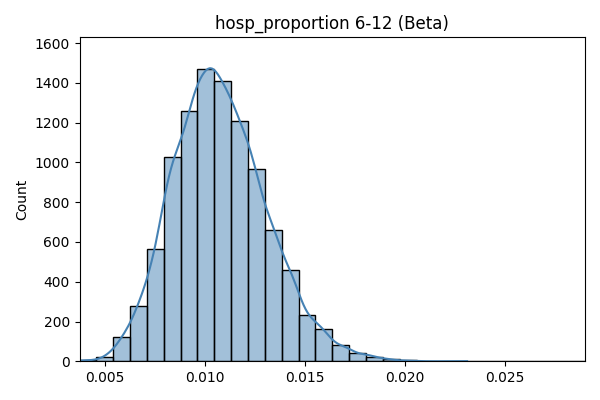
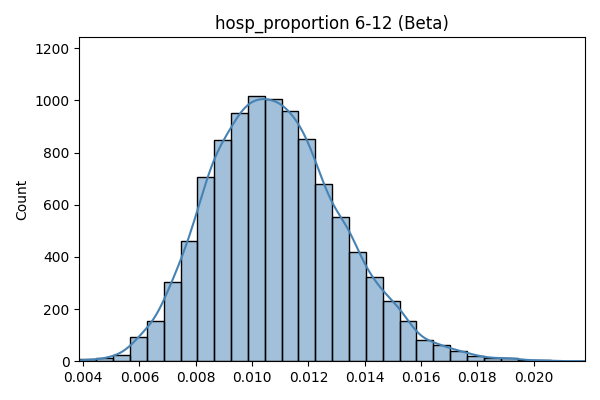
use only numpy for sampling on plot_distributions and sample_truncated_normal

diff --git a/plot_distributions.py b/plot_distributions.py
@@ -1,7 +1,5 @@
 """Generate and save sampled distributions plots based on fitted parameters."""
 
-import math
-import random
 from pathlib import Path
 
 import matplotlib.pyplot as plt
@@ -29,7 +27,6 @@ OUTPUT_DIR.mkdir(parents=True, exist_ok=True)
 
 N = 10_000
 
-DEFAULT_RNG = random.Random(42)
 NP_RNG = np.random.default_rng(42)
 
 
@@ -80,14 +77,14 @@ moderate_mean = float(scalar_row["moderate_case_dw"])
 moderate_lo = float(scalar_row["moderate_case_dw_ci95_lower"])
 moderate_hi = float(scalar_row["moderate_case_dw_ci95_upper"])
 a_mod, b_mod = fit_beta(moderate_mean, moderate_lo, moderate_hi)
-moderate_samples = [DEFAULT_RNG.betavariate(a_mod, b_mod) for _ in range(N)]
+moderate_samples = NP_RNG.beta(a_mod, b_mod, N)
 _save_hist(moderate_samples, "moderate_case_dw (Beta)", "moderate_case_dw_beta.png")
 
 severe_mean = float(scalar_row["severe_case_dw"])
 severe_lo = float(scalar_row["severe_case_dw_ci95_lower"])
 severe_hi = float(scalar_row["severe_case_dw_ci95_upper"])
 a_sev, b_sev = fit_beta(severe_mean, severe_lo, severe_hi)
-severe_samples = [DEFAULT_RNG.betavariate(a_sev, b_sev) for _ in range(N)]
+severe_samples = NP_RNG.beta(a_sev, b_sev, N)
 _save_hist(severe_samples, "severe_case_dw (Beta)", "severe_case_dw_beta.png")
 
 # Epidemiologic proportions (Beta & Lognormal) per age group
@@ -98,7 +95,7 @@ for sg in agegroup_data_df.index:
     hosp_samples_collection = []
     try:
         a_hosp, b_hosp = fit_beta(hosp_mean, hosp_lo, hosp_hi)
-        hosp_beta_samples = [DEFAULT_RNG.betavariate(a_hosp, b_hosp) for _ in range(N)]
+        hosp_beta_samples = NP_RNG.beta(a_hosp, b_hosp, N)
         hosp_samples_collection.append(
             (
                 hosp_beta_samples,
@@ -109,7 +106,7 @@ for sg in agegroup_data_df.index:
     except ValueError:
         pass
     mu_hosp, sigma_hosp = fit_lognormal(hosp_mean, hosp_lo, hosp_hi)
-    hosp_logn_samples = [math.exp(DEFAULT_RNG.gauss(mu_hosp, sigma_hosp)) for _ in range(N)]
+    hosp_logn_samples = NP_RNG.lognormal(mu_hosp, sigma_hosp, N)
     hosp_samples_collection.append(
         (
             hosp_logn_samples,
@@ -125,7 +122,7 @@ for sg in agegroup_data_df.index:
     out_samples_collection = []
     try:
         a_out, b_out = fit_beta(out_mean, out_lo, out_hi)
-        out_beta_samples = [DEFAULT_RNG.betavariate(a_out, b_out) for _ in range(N)]
+        out_beta_samples = NP_RNG.beta(a_out, b_out, N)
         out_samples_collection.append(
             (
                 out_beta_samples,
@@ -136,7 +133,7 @@ for sg in agegroup_data_df.index:
     except ValueError:
         pass
     mu_out, sigma_out = fit_lognormal(out_mean, out_lo, out_hi)
-    out_logn_samples = [math.exp(DEFAULT_RNG.gauss(mu_out, sigma_out)) for _ in range(N)]
+    out_logn_samples = NP_RNG.lognormal(mu_out, sigma_out, N)
     out_samples_collection.append(
         (
             out_logn_samples,
@@ -154,9 +151,9 @@ for sg in agegroup_data_df.index:
         h_lo = float(agegroup_data_df.loc[sg, "nirsevimab_hosp_reduction_eff_ci95_lower"])
         h_hi = float(agegroup_data_df.loc[sg, "nirsevimab_hosp_reduction_eff_ci95_upper"])
         n_mean, n_sd = fit_normal(h_mean, h_lo, h_hi)
-        hosp_norm_samples = sample_truncated_normal(N, n_mean, n_sd, rng=DEFAULT_RNG)
+        hosp_norm_samples = sample_truncated_normal(N, n_mean, n_sd, 0.0, 1.0, rng=NP_RNG)
         a_h, b_h = fit_beta(h_mean, h_lo, h_hi)
-        hosp_beta_samples = [DEFAULT_RNG.betavariate(a_h, b_h) for _ in range(N)]
+        hosp_beta_samples = NP_RNG.beta(a_h, b_h, N)
         _save_comparative_hists(
             [
                 (
@@ -178,7 +175,7 @@ for sg in agegroup_data_df.index:
         m_lo = float(agegroup_data_df.loc[sg, "nirsevimab_malrti_reduction_eff_ci95_lower"])
         m_hi = float(agegroup_data_df.loc[sg, "nirsevimab_malrti_reduction_eff_ci95_upper"])
         a_m, b_m = fit_beta(m_mean, m_lo, m_hi)
-        malrti_beta_samples = [DEFAULT_RNG.betavariate(a_m, b_m) for _ in range(N)]
+        malrti_beta_samples = NP_RNG.beta(a_m, b_m, N)
         _save_hist(
             malrti_beta_samples,
             f"malrti_reduction_eff {sg} (Beta)",
@@ -201,7 +198,7 @@ variation = 0.25
 for sg in agegroup_data_df.index:
     mean_inp = float(agegroup_data_df.loc[sg, "inpatient_cost"])
     mu_inp, sigma_inp = fit_lognormal_briggs(mean_inp, variation)
-    inpatient_cost_samples = [math.exp(DEFAULT_RNG.gauss(mu_inp, sigma_inp)) for _ in range(N)]
+    inpatient_cost_samples = NP_RNG.lognormal(mu_inp, sigma_inp, N)
     _save_hist(
         inpatient_cost_samples,
         f"inpatient_cost {sg} (Lognormal Briggs)",
@@ -210,18 +207,18 @@ for sg in agegroup_data_df.index:
 
 opc_mean = float(agegroup_data_df.iloc[0]["outpatient_pc_cost"])
 mu_opc, sigma_opc = fit_lognormal_briggs(opc_mean, variation)
-opc_samples = [math.exp(DEFAULT_RNG.gauss(mu_opc, sigma_opc)) for _ in range(N)]
+opc_samples = NP_RNG.lognormal(mu_opc, sigma_opc, N)
 _save_hist(opc_samples, "outpatient_pc_cost (Lognormal Briggs)", "outpatient_pc_cost_lognormal.png")
 
 oec_mean = float(agegroup_data_df.iloc[0]["outpatient_ec_cost"])
 mu_oec, sigma_oec = fit_lognormal_briggs(oec_mean, variation)
-oec_samples = [math.exp(DEFAULT_RNG.gauss(mu_oec, sigma_oec)) for _ in range(N)]
+oec_samples = NP_RNG.lognormal(mu_oec, sigma_oec, N)
 _save_hist(oec_samples, "outpatient_ec_cost (Lognormal Briggs)", "outpatient_ec_cost_lognormal.png")
 
 # Indirect costs (caregiver daily salary)
 salary_mean = float(agegroup_data_df.iloc[0]["caregiver_daily_salary"])
 mu_sal, sigma_sal = fit_lognormal_briggs(salary_mean, variation)
-salary_samples = [math.exp(DEFAULT_RNG.gauss(mu_sal, sigma_sal)) for _ in range(N)]
+salary_samples = NP_RNG.lognormal(mu_sal, sigma_sal, N)
 _save_hist(
     salary_samples,
     "caregiver_daily_salary (Lognormal Briggs)",

diff --git a/stat_tools/sampling.py b/stat_tools/sampling.py
@@ -6,6 +6,8 @@ import math
 import random
 from typing import List
 
+import numpy as np
+
 
 def sample_lognormal(
     n: int,
@@ -24,17 +26,23 @@ def sample_truncated_normal(
     sd: float,
     lo: float = 0.0,
     hi: float = 1.0,
-    rng: random.Random | None = None,
+    rng: np.random.Generator | None = None,
 ) -> List[float]:
     """
-    Generate n samples from a truncated normal distribution [lo, hi].
+    Generate n samples from a truncated normal distribution [lo, hi] using a numpy Generator.
     """
-    r = rng if rng is not None else random
-    out: List[float] = []
-    for _ in range(n):
-        while True:
-            x = r.gauss(mean, sd)
-            if lo <= x <= hi:
-                out.append(x)
-                break
-    return out
+    rng = rng or np.random.default_rng()
+    if sd == 0:
+        val = min(max(mean, lo), hi)
+        return [val] * n
+    out_parts = []
+    remaining = n
+    while remaining > 0:
+        batch = max(remaining, 1024)
+        samples = rng.normal(mean, sd, batch)
+        accepted = samples[(samples >= lo) & (samples <= hi)]
+        if accepted.size:
+            take = min(remaining, accepted.size)
+            out_parts.append(accepted[:take])
+            remaining -= take
+    return np.concatenate(out_parts).tolist()
